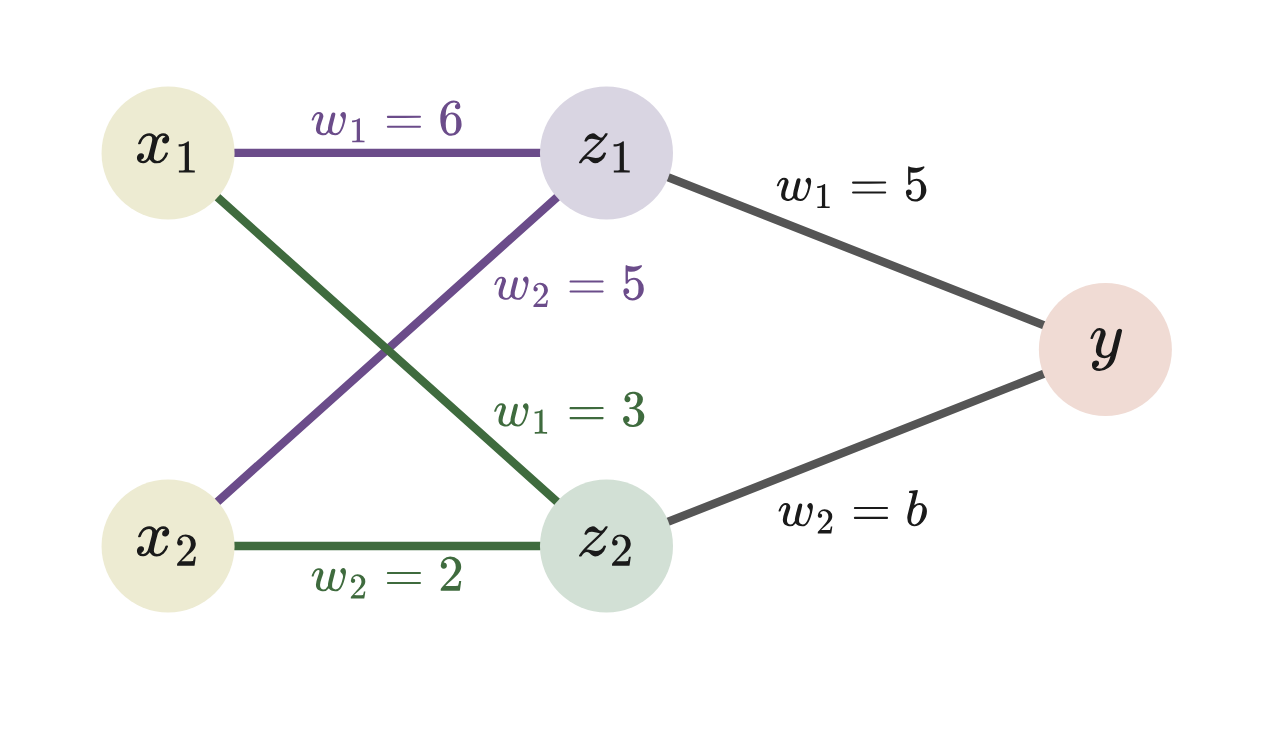
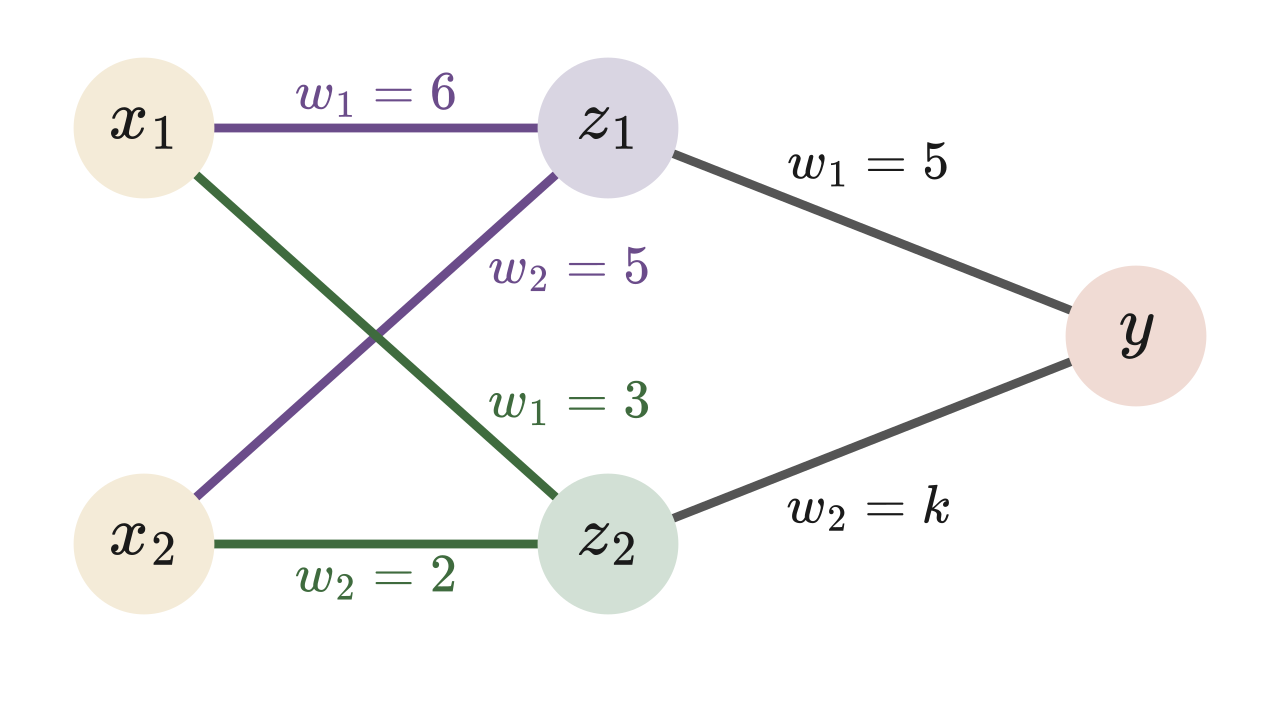
feat: 2학기 중간고사 시험지 v2 — 출제 오류 2건 수정 및 문항 정비
25문항 전체를 재검산하여 치명적 오류 2건을 바로잡고, 라벨 체계와
발문 형식을 정비한 개정본(v2)을 추가한다.

[오류 수정]
- 23번: 정답이 선택지에 없었음. P_A=3/4, P_B=4/5 이므로 B, 4/5 로
  분류되는데 해당 선택지가 없어 전원 정답 처리 사안이었다.
  선택지를 A 3/4 / A 4/5 / B 3/4 / B 4/5 / B 1 로 교체(정답 4번).
- 24번: 보기 ㄴ, ㄷ이 모두 거짓이었음. P_B 출력은 1이 아닌 2/7이고,
  해밍과 퍼셉트론이 갈린다는 ㄷ도 실제로는 둘 다 A로 분류된다.
  ㄴ을 오개념 저격 보기로, ㄷ을 사실에 맞게 수정(정답 4번).
  참고: 두 지표 모두 |A|가 작을수록 A에 유리해 3x3 격자에서는
  두 방법이 갈리는 상황을 구성할 수 없다(전수 탐색 확인).

[라벨 체계 통일]
- 분류 대상 이미지를 모두 X로 통일(10, 15, 16, 23, 24번).
  17번이 이미 이 규칙을 쓰고 있었다. 퍼셉트론 기호 P_A, P_B와
  충돌하므로 P는 쓰지 않는다.
- 15번 나열 순서를 A, B, C, X 로 정리.
- HTML은 인라인 SVG의 text 라벨 3곳만 수정.
- md용 PNG 3개(16, 23, 24번)는 원본 스타일로 재생성.

[문항 정비]
- 18, 25번: "순서대로 나열" 유형이 6문항으로 몰려 단일 답형으로 변경.
- 19번: 조건을 뒤로 빼서 "~인 퍼셉트론이 있다. w1=2일 때," 형태로.
- 20, 21번: "그림과 같은 가중치로 정해지는 ... 즉," 중복을 제거하고
  가중치 식을 별도 줄로 분리.
- 21번: 미지수 b를 k로 변경. b는 편향(bias)으로 오해되기 쉽고,
  바로 다음 22번에서 a, b를 행렬 성분으로 쓰고 있어 충돌한다.
  그림의 가중치 라벨(w_1, w_2 표기 + 색 구분)은 교과서(미래엔 77쪽)
  표기를 그대로 따르므로 유지하고, w_2=b 글리프만 k로 교체했다.

배점 3점 7 / 4점 11 / 5점 7 = 100점. 정답 분포 5/5/5/7/3.
원본은 그대로 두고 v2/ 하위에 추가한다.

Claude-Session: https://claude.ai/code/session_01137yLjB8xpwTJbUHsQQgqN

diff --git a/ai-math/output/exam/2026-2학기_중간고사/v2/시험지_v2_단독보기.html b/ai-math/output/exam/2026-2학기_중간고사/v2/시험지_v2_단독보기.html
@@ -984,7 +984,7 @@ mjx-container[jax="CHTML"][display="true"] {
 <svg class="fg-w-z2" x="30.50" y="23.80" width="10.15" height="2.77" viewBox="0.0 -665.0 2986.1 815.0"><g stroke="currentColor" fill="currentColor" stroke-width="0" transform="scale(1,-1)"><g data-mml-node="math"><g data-mml-node="msub"><g data-mml-node="mi"><path data-c="1D464" d="M580 385Q580 406 599 424T641 443Q659 443 674 425T690 368Q690 339 671 253Q656 197 644 161T609 80T554 12T482 -11Q438 -11 404 5T355 48Q354 47 352 44Q311 -11 252 -11Q226 -11 202 -5T155 14T118 53T104 116Q104 170 138 262T173 379Q173 380 173 381Q173 390 173 393T169 400T158 404H154Q131 404 112 385T82 344T65 302T57 280Q55 278 41 278H27Q21 284 21 287Q21 293 29 315T52 366T96 418T161 441Q204 441 227 416T250 358Q250 340 217 250T184 111Q184 65 205 46T258 26Q301 26 334 87L339 96V119Q339 122 339 128T340 136T341 143T342 152T345 165T348 182T354 206T362 238T373 281Q402 395 406 404Q419 431 449 431Q468 431 475 421T483 402Q483 389 454 274T422 142Q420 131 420 107V100Q420 85 423 71T442 42T487 26Q558 26 600 148Q609 171 620 213T632 273Q632 306 619 325T593 357T580 385Z"></path></g><g data-mml-node="mn" transform="translate(749,-150) scale(0.707)"><path data-c="31" d="M213 578L200 573Q186 568 160 563T102 556H83V602H102Q149 604 189 617T245 641T273 663Q275 666 285 666Q294 666 302 660V361L303 61Q310 54 315 52T339 48T401 46H427V0H416Q395 3 257 3Q121 3 100 0H88V46H114Q136 46 152 46T177 47T193 50T201 52T207 57T213 61V578Z"></path></g></g><g data-mml-node="mo" transform="translate(1430.3,0)"><path data-c="3D" d="M56 347Q56 360 70 367H707Q722 359 722 347Q722 336 708 328L390 327H72Q56 332 56 347ZM56 153Q56 168 72 173H708Q722 163 722 153Q722 140 707 133H70Q56 140 56 153Z"></path></g><g data-mml-node="mn" transform="translate(2486.1,0)"><path data-c="33" d="M127 463Q100 463 85 480T69 524Q69 579 117 622T233 665Q268 665 277 664Q351 652 390 611T430 522Q430 470 396 421T302 350L299 348Q299 347 308 345T337 336T375 315Q457 262 457 175Q457 96 395 37T238 -22Q158 -22 100 21T42 130Q42 158 60 175T105 193Q133 193 151 175T169 130Q169 119 166 110T159 94T148 82T136 74T126 70T118 67L114 66Q165 21 238 21Q293 21 321 74Q338 107 338 175V195Q338 290 274 322Q259 328 213 329L171 330L168 332Q166 335 166 348Q166 366 174 366Q202 366 232 371Q266 376 294 413T322 525V533Q322 590 287 612Q265 626 240 626Q208 626 181 615T143 592T132 580H135Q138 579 143 578T153 573T165 566T175 555T183 540T186 520Q186 498 172 481T127 463Z"></path></g></g></g></svg>
 <svg class="fg-w-z2" x="18.42" y="34.70" width="10.15" height="2.77" viewBox="0.0 -666.0 2986.1 816.0"><g stroke="currentColor" fill="currentColor" stroke-width="0" transform="scale(1,-1)"><g data-mml-node="math"><g data-mml-node="msub"><g data-mml-node="mi"><path data-c="1D464" d="M580 385Q580 406 599 424T641 443Q659 443 674 425T690 368Q690 339 671 253Q656 197 644 161T609 80T554 12T482 -11Q438 -11 404 5T355 48Q354 47 352 44Q311 -11 252 -11Q226 -11 202 -5T155 14T118 53T104 116Q104 170 138 262T173 379Q173 380 173 381Q173 390 173 393T169 400T158 404H154Q131 404 112 385T82 344T65 302T57 280Q55 278 41 278H27Q21 284 21 287Q21 293 29 315T52 366T96 418T161 441Q204 441 227 416T250 358Q250 340 217 250T184 111Q184 65 205 46T258 26Q301 26 334 87L339 96V119Q339 122 339 128T340 136T341 143T342 152T345 165T348 182T354 206T362 238T373 281Q402 395 406 404Q419 431 449 431Q468 431 475 421T483 402Q483 389 454 274T422 142Q420 131 420 107V100Q420 85 423 71T442 42T487 26Q558 26 600 148Q609 171 620 213T632 273Q632 306 619 325T593 357T580 385Z"></path></g><g data-mml-node="mn" transform="translate(749,-150) scale(0.707)"><path data-c="32" d="M109 429Q82 429 66 447T50 491Q50 562 103 614T235 666Q326 666 387 610T449 465Q449 422 429 383T381 315T301 241Q265 210 201 149L142 93L218 92Q375 92 385 97Q392 99 409 186V189H449V186Q448 183 436 95T421 3V0H50V19V31Q50 38 56 46T86 81Q115 113 136 137Q145 147 170 174T204 211T233 244T261 278T284 308T305 340T320 369T333 401T340 431T343 464Q343 527 309 573T212 619Q179 619 154 602T119 569T109 550Q109 549 114 549Q132 549 151 535T170 489Q170 464 154 447T109 429Z"></path></g></g><g data-mml-node="mo" transform="translate(1430.3,0)"><path data-c="3D" d="M56 347Q56 360 70 367H707Q722 359 722 347Q722 336 708 328L390 327H72Q56 332 56 347ZM56 153Q56 168 72 173H708Q722 163 722 153Q722 140 707 133H70Q56 140 56 153Z"></path></g><g data-mml-node="mn" transform="translate(2486.1,0)"><path data-c="32" d="M109 429Q82 429 66 447T50 491Q50 562 103 614T235 666Q326 666 387 610T449 465Q449 422 429 383T381 315T301 241Q265 210 201 149L142 93L218 92Q375 92 385 97Q392 99 409 186V189H449V186Q448 183 436 95T421 3V0H50V19V31Q50 38 56 46T86 81Q115 113 136 137Q145 147 170 174T204 211T233 244T261 278T284 308T305 340T320 369T333 401T340 431T343 464Q343 527 309 573T212 619Q179 619 154 602T119 569T109 550Q109 549 114 549Q132 549 151 535T170 489Q170 464 154 447T109 429Z"></path></g></g></g></svg>
 <svg class="fg-w-y" x="49.19" y="8.88" width="10.15" height="2.77" viewBox="0.0 -666.0 2986.1 816.0"><g stroke="currentColor" fill="currentColor" stroke-width="0" transform="scale(1,-1)"><g data-mml-node="math"><g data-mml-node="msub"><g data-mml-node="mi"><path data-c="1D464" d="M580 385Q580 406 599 424T641 443Q659 443 674 425T690 368Q690 339 671 253Q656 197 644 161T609 80T554 12T482 -11Q438 -11 404 5T355 48Q354 47 352 44Q311 -11 252 -11Q226 -11 202 -5T155 14T118 53T104 116Q104 170 138 262T173 379Q173 380 173 381Q173 390 173 393T169 400T158 404H154Q131 404 112 385T82 344T65 302T57 280Q55 278 41 278H27Q21 284 21 287Q21 293 29 315T52 366T96 418T161 441Q204 441 227 416T250 358Q250 340 217 250T184 111Q184 65 205 46T258 26Q301 26 334 87L339 96V119Q339 122 339 128T340 136T341 143T342 152T345 165T348 182T354 206T362 238T373 281Q402 395 406 404Q419 431 449 431Q468 431 475 421T483 402Q483 389 454 274T422 142Q420 131 420 107V100Q420 85 423 71T442 42T487 26Q558 26 600 148Q609 171 620 213T632 273Q632 306 619 325T593 357T580 385Z"></path></g><g data-mml-node="mn" transform="translate(749,-150) scale(0.707)"><path data-c="31" d="M213 578L200 573Q186 568 160 563T102 556H83V602H102Q149 604 189 617T245 641T273 663Q275 666 285 666Q294 666 302 660V361L303 61Q310 54 315 52T339 48T401 46H427V0H416Q395 3 257 3Q121 3 100 0H88V46H114Q136 46 152 46T177 47T193 50T201 52T207 57T213 61V578Z"></path></g></g><g data-mml-node="mo" transform="translate(1430.3,0)"><path data-c="3D" d="M56 347Q56 360 70 367H707Q722 359 722 347Q722 336 708 328L390 327H72Q56 332 56 347ZM56 153Q56 168 72 173H708Q722 163 722 153Q722 140 707 133H70Q56 140 56 153Z"></path></g><g data-mml-node="mn" transform="translate(2486.1,0)"><path data-c="35" d="M164 157Q164 133 148 117T109 101H102Q148 22 224 22Q294 22 326 82Q345 115 345 210Q345 313 318 349Q292 382 260 382H254Q176 382 136 314Q132 307 129 306T114 304Q97 304 95 310Q93 314 93 485V614Q93 664 98 664Q100 666 102 666Q103 666 123 658T178 642T253 634Q324 634 389 662Q397 666 402 666Q410 666 410 648V635Q328 538 205 538Q174 538 149 544L139 546V374Q158 388 169 396T205 412T256 420Q337 420 393 355T449 201Q449 109 385 44T229 -22Q148 -22 99 32T50 154Q50 178 61 192T84 210T107 214Q132 214 148 197T164 157Z"></path></g></g></g></svg>
-<svg class="fg-w-y" x="49.31" y="30.30" width="9.91" height="2.87" viewBox="0.0 -694.0 2915.1 844.0"><g stroke="currentColor" fill="currentColor" stroke-width="0" transform="scale(1,-1)"><g data-mml-node="math"><g data-mml-node="msub"><g data-mml-node="mi"><path data-c="1D464" d="M580 385Q580 406 599 424T641 443Q659 443 674 425T690 368Q690 339 671 253Q656 197 644 161T609 80T554 12T482 -11Q438 -11 404 5T355 48Q354 47 352 44Q311 -11 252 -11Q226 -11 202 -5T155 14T118 53T104 116Q104 170 138 262T173 379Q173 380 173 381Q173 390 173 393T169 400T158 404H154Q131 404 112 385T82 344T65 302T57 280Q55 278 41 278H27Q21 284 21 287Q21 293 29 315T52 366T96 418T161 441Q204 441 227 416T250 358Q250 340 217 250T184 111Q184 65 205 46T258 26Q301 26 334 87L339 96V119Q339 122 339 128T340 136T341 143T342 152T345 165T348 182T354 206T362 238T373 281Q402 395 406 404Q419 431 449 431Q468 431 475 421T483 402Q483 389 454 274T422 142Q420 131 420 107V100Q420 85 423 71T442 42T487 26Q558 26 600 148Q609 171 620 213T632 273Q632 306 619 325T593 357T580 385Z"></path></g><g data-mml-node="mn" transform="translate(749,-150) scale(0.707)"><path data-c="32" d="M109 429Q82 429 66 447T50 491Q50 562 103 614T235 666Q326 666 387 610T449 465Q449 422 429 383T381 315T301 241Q265 210 201 149L142 93L218 92Q375 92 385 97Q392 99 409 186V189H449V186Q448 183 436 95T421 3V0H50V19V31Q50 38 56 46T86 81Q115 113 136 137Q145 147 170 174T204 211T233 244T261 278T284 308T305 340T320 369T333 401T340 431T343 464Q343 527 309 573T212 619Q179 619 154 602T119 569T109 550Q109 549 114 549Q132 549 151 535T170 489Q170 464 154 447T109 429Z"></path></g></g><g data-mml-node="mo" transform="translate(1430.3,0)"><path data-c="3D" d="M56 347Q56 360 70 367H707Q722 359 722 347Q722 336 708 328L390 327H72Q56 332 56 347ZM56 153Q56 168 72 173H708Q722 163 722 153Q722 140 707 133H70Q56 140 56 153Z"></path></g><g data-mml-node="mi" transform="translate(2486.1,0)"><path data-c="1D44F" d="M73 647Q73 657 77 670T89 683Q90 683 161 688T234 694Q246 694 246 685T212 542Q204 508 195 472T180 418L176 399Q176 396 182 402Q231 442 283 442Q345 442 383 396T422 280Q422 169 343 79T173 -11Q123 -11 82 27T40 150V159Q40 180 48 217T97 414Q147 611 147 623T109 637Q104 637 101 637H96Q86 637 83 637T76 640T73 647ZM336 325V331Q336 405 275 405Q258 405 240 397T207 376T181 352T163 330L157 322L136 236Q114 150 114 114Q114 66 138 42Q154 26 178 26Q211 26 245 58Q270 81 285 114T318 219Q336 291 336 325Z"></path></g></g></g></svg>
+<svg class="fg-w-y" x="49.15" y="30.3" width="10.22" height="2.87" viewBox="0.0 -694.0 3007.1 844.0"><g stroke="currentColor" fill="currentColor" stroke-width="0" transform="scale(1,-1)"><g data-mml-node="math"><g data-mml-node="msub"><g data-mml-node="mi"><path data-c="1D464" d="M580 385Q580 406 599 424T641 443Q659 443 674 425T690 368Q690 339 671 253Q656 197 644 161T609 80T554 12T482 -11Q438 -11 404 5T355 48Q354 47 352 44Q311 -11 252 -11Q226 -11 202 -5T155 14T118 53T104 116Q104 170 138 262T173 379Q173 380 173 381Q173 390 173 393T169 400T158 404H154Q131 404 112 385T82 344T65 302T57 280Q55 278 41 278H27Q21 284 21 287Q21 293 29 315T52 366T96 418T161 441Q204 441 227 416T250 358Q250 340 217 250T184 111Q184 65 205 46T258 26Q301 26 334 87L339 96V119Q339 122 339 128T340 136T341 143T342 152T345 165T348 182T354 206T362 238T373 281Q402 395 406 404Q419 431 449 431Q468 431 475 421T483 402Q483 389 454 274T422 142Q420 131 420 107V100Q420 85 423 71T442 42T487 26Q558 26 600 148Q609 171 620 213T632 273Q632 306 619 325T593 357T580 385Z"></path></g><g data-mml-node="mn" transform="translate(749,-150) scale(0.707)"><path data-c="32" d="M109 429Q82 429 66 447T50 491Q50 562 103 614T235 666Q326 666 387 610T449 465Q449 422 429 383T381 315T301 241Q265 210 201 149L142 93L218 92Q375 92 385 97Q392 99 409 186V189H449V186Q448 183 436 95T421 3V0H50V19V31Q50 38 56 46T86 81Q115 113 136 137Q145 147 170 174T204 211T233 244T261 278T284 308T305 340T320 369T333 401T340 431T343 464Q343 527 309 573T212 619Q179 619 154 602T119 569T109 550Q109 549 114 549Q132 549 151 535T170 489Q170 464 154 447T109 429Z"></path></g></g><g data-mml-node="mo" transform="translate(1430.3,0)"><path data-c="3D" d="M56 347Q56 360 70 367H707Q722 359 722 347Q722 336 708 328L390 327H72Q56 332 56 347ZM56 153Q56 168 72 173H708Q722 163 722 153Q722 140 707 133H70Q56 140 56 153Z"></path></g><g data-mml-node="mi" transform="translate(2486.1,0)"><path data-c="1D458" d="M121 647Q121 657 125 670T137 683Q138 683 209 688T282 694Q294 694 294 686Q294 679 244 477Q194 279 194 272Q213 282 223 291Q247 309 292 354T362 415Q402 442 438 442Q468 442 485 423T503 369Q503 344 496 327T477 302T456 291T438 288Q418 288 406 299T394 328Q394 353 410 369T442 390L458 393Q446 405 434 405H430Q398 402 367 380T294 316T228 255Q230 254 243 252T267 246T293 238T320 224T342 206T359 180T365 147Q365 130 360 106T354 66Q354 26 381 26Q429 26 459 145Q461 153 479 153H483Q499 153 499 144Q499 139 496 130Q455 -11 378 -11Q333 -11 305 15T277 90Q277 108 280 121T283 145Q283 167 269 183T234 206T200 217T182 220H180Q168 178 159 139T145 81T136 44T129 20T122 7T111 -2Q98 -11 83 -11Q66 -11 57 -1T48 16Q48 26 85 176T158 471L195 616Q196 629 188 632T149 637H144Q134 637 131 637T124 640T121 647Z"></path></g></g></g></svg>
 <circle class="fg-node-x" cx="9" cy="8" r="4.4"/>
 <svg class="fg-node-text" x="6.78" y="6.70" width="4.44" height="2.60" viewBox="0.0 -442.0 1008.6 592.0"><g stroke="currentColor" fill="currentColor" stroke-width="0" transform="scale(1,-1)"><g data-mml-node="math"><g data-mml-node="msub"><g data-mml-node="mi"><path data-c="1D465" d="M52 289Q59 331 106 386T222 442Q257 442 286 424T329 379Q371 442 430 442Q467 442 494 420T522 361Q522 332 508 314T481 292T458 288Q439 288 427 299T415 328Q415 374 465 391Q454 404 425 404Q412 404 406 402Q368 386 350 336Q290 115 290 78Q290 50 306 38T341 26Q378 26 414 59T463 140Q466 150 469 151T485 153H489Q504 153 504 145Q504 144 502 134Q486 77 440 33T333 -11Q263 -11 227 52Q186 -10 133 -10H127Q78 -10 57 16T35 71Q35 103 54 123T99 143Q142 143 142 101Q142 81 130 66T107 46T94 41L91 40Q91 39 97 36T113 29T132 26Q168 26 194 71Q203 87 217 139T245 247T261 313Q266 340 266 352Q266 380 251 392T217 404Q177 404 142 372T93 290Q91 281 88 280T72 278H58Q52 284 52 289Z"></path></g><g data-mml-node="mn" transform="translate(605,-150) scale(0.707)"><path data-c="31" d="M213 578L200 573Q186 568 160 563T102 556H83V602H102Q149 604 189 617T245 641T273 663Q275 666 285 666Q294 666 302 660V361L303 61Q310 54 315 52T339 48T401 46H427V0H416Q395 3 257 3Q121 3 100 0H88V46H114Q136 46 152 46T177 47T193 50T201 52T207 57T213 61V578Z"></path></g></g></g></g></svg>
 <circle class="fg-node-x" cx="9" cy="34" r="4.4"/>

diff --git a/ai-math/output/exam/2026-2학기_중간고사/v2/시험지_2026-2학기_중간고사_인공지능수학_v2.html b/ai-math/output/exam/2026-2학기_중간고사/v2/시험지_2026-2학기_중간고사_인공지능수학_v2.html
@@ -247,7 +247,7 @@
 <svg class="fg-w-z2" x="30.50" y="23.80" width="10.15" height="2.77" viewBox="0.0 -665.0 2986.1 815.0"><g stroke="currentColor" fill="currentColor" stroke-width="0" transform="scale(1,-1)"><g data-mml-node="math"><g data-mml-node="msub"><g data-mml-node="mi"><path data-c="1D464" d="M580 385Q580 406 599 424T641 443Q659 443 674 425T690 368Q690 339 671 253Q656 197 644 161T609 80T554 12T482 -11Q438 -11 404 5T355 48Q354 47 352 44Q311 -11 252 -11Q226 -11 202 -5T155 14T118 53T104 116Q104 170 138 262T173 379Q173 380 173 381Q173 390 173 393T169 400T158 404H154Q131 404 112 385T82 344T65 302T57 280Q55 278 41 278H27Q21 284 21 287Q21 293 29 315T52 366T96 418T161 441Q204 441 227 416T250 358Q250 340 217 250T184 111Q184 65 205 46T258 26Q301 26 334 87L339 96V119Q339 122 339 128T340 136T341 143T342 152T345 165T348 182T354 206T362 238T373 281Q402 395 406 404Q419 431 449 431Q468 431 475 421T483 402Q483 389 454 274T422 142Q420 131 420 107V100Q420 85 423 71T442 42T487 26Q558 26 600 148Q609 171 620 213T632 273Q632 306 619 325T593 357T580 385Z"></path></g><g data-mml-node="mn" transform="translate(749,-150) scale(0.707)"><path data-c="31" d="M213 578L200 573Q186 568 160 563T102 556H83V602H102Q149 604 189 617T245 641T273 663Q275 666 285 666Q294 666 302 660V361L303 61Q310 54 315 52T339 48T401 46H427V0H416Q395 3 257 3Q121 3 100 0H88V46H114Q136 46 152 46T177 47T193 50T201 52T207 57T213 61V578Z"></path></g></g><g data-mml-node="mo" transform="translate(1430.3,0)"><path data-c="3D" d="M56 347Q56 360 70 367H707Q722 359 722 347Q722 336 708 328L390 327H72Q56 332 56 347ZM56 153Q56 168 72 173H708Q722 163 722 153Q722 140 707 133H70Q56 140 56 153Z"></path></g><g data-mml-node="mn" transform="translate(2486.1,0)"><path data-c="33" d="M127 463Q100 463 85 480T69 524Q69 579 117 622T233 665Q268 665 277 664Q351 652 390 611T430 522Q430 470 396 421T302 350L299 348Q299 347 308 345T337 336T375 315Q457 262 457 175Q457 96 395 37T238 -22Q158 -22 100 21T42 130Q42 158 60 175T105 193Q133 193 151 175T169 130Q169 119 166 110T159 94T148 82T136 74T126 70T118 67L114 66Q165 21 238 21Q293 21 321 74Q338 107 338 175V195Q338 290 274 322Q259 328 213 329L171 330L168 332Q166 335 166 348Q166 366 174 366Q202 366 232 371Q266 376 294 413T322 525V533Q322 590 287 612Q265 626 240 626Q208 626 181 615T143 592T132 580H135Q138 579 143 578T153 573T165 566T175 555T183 540T186 520Q186 498 172 481T127 463Z"></path></g></g></g></svg>
 <svg class="fg-w-z2" x="18.42" y="34.70" width="10.15" height="2.77" viewBox="0.0 -666.0 2986.1 816.0"><g stroke="currentColor" fill="currentColor" stroke-width="0" transform="scale(1,-1)"><g data-mml-node="math"><g data-mml-node="msub"><g data-mml-node="mi"><path data-c="1D464" d="M580 385Q580 406 599 424T641 443Q659 443 674 425T690 368Q690 339 671 253Q656 197 644 161T609 80T554 12T482 -11Q438 -11 404 5T355 48Q354 47 352 44Q311 -11 252 -11Q226 -11 202 -5T155 14T118 53T104 116Q104 170 138 262T173 379Q173 380 173 381Q173 390 173 393T169 400T158 404H154Q131 404 112 385T82 344T65 302T57 280Q55 278 41 278H27Q21 284 21 287Q21 293 29 315T52 366T96 418T161 441Q204 441 227 416T250 358Q250 340 217 250T184 111Q184 65 205 46T258 26Q301 26 334 87L339 96V119Q339 122 339 128T340 136T341 143T342 152T345 165T348 182T354 206T362 238T373 281Q402 395 406 404Q419 431 449 431Q468 431 475 421T483 402Q483 389 454 274T422 142Q420 131 420 107V100Q420 85 423 71T442 42T487 26Q558 26 600 148Q609 171 620 213T632 273Q632 306 619 325T593 357T580 385Z"></path></g><g data-mml-node="mn" transform="translate(749,-150) scale(0.707)"><path data-c="32" d="M109 429Q82 429 66 447T50 491Q50 562 103 614T235 666Q326 666 387 610T449 465Q449 422 429 383T381 315T301 241Q265 210 201 149L142 93L218 92Q375 92 385 97Q392 99 409 186V189H449V186Q448 183 436 95T421 3V0H50V19V31Q50 38 56 46T86 81Q115 113 136 137Q145 147 170 174T204 211T233 244T261 278T284 308T305 340T320 369T333 401T340 431T343 464Q343 527 309 573T212 619Q179 619 154 602T119 569T109 550Q109 549 114 549Q132 549 151 535T170 489Q170 464 154 447T109 429Z"></path></g></g><g data-mml-node="mo" transform="translate(1430.3,0)"><path data-c="3D" d="M56 347Q56 360 70 367H707Q722 359 722 347Q722 336 708 328L390 327H72Q56 332 56 347ZM56 153Q56 168 72 173H708Q722 163 722 153Q722 140 707 133H70Q56 140 56 153Z"></path></g><g data-mml-node="mn" transform="translate(2486.1,0)"><path data-c="32" d="M109 429Q82 429 66 447T50 491Q50 562 103 614T235 666Q326 666 387 610T449 465Q449 422 429 383T381 315T301 241Q265 210 201 149L142 93L218 92Q375 92 385 97Q392 99 409 186V189H449V186Q448 183 436 95T421 3V0H50V19V31Q50 38 56 46T86 81Q115 113 136 137Q145 147 170 174T204 211T233 244T261 278T284 308T305 340T320 369T333 401T340 431T343 464Q343 527 309 573T212 619Q179 619 154 602T119 569T109 550Q109 549 114 549Q132 549 151 535T170 489Q170 464 154 447T109 429Z"></path></g></g></g></svg>
 <svg class="fg-w-y" x="49.19" y="8.88" width="10.15" height="2.77" viewBox="0.0 -666.0 2986.1 816.0"><g stroke="currentColor" fill="currentColor" stroke-width="0" transform="scale(1,-1)"><g data-mml-node="math"><g data-mml-node="msub"><g data-mml-node="mi"><path data-c="1D464" d="M580 385Q580 406 599 424T641 443Q659 443 674 425T690 368Q690 339 671 253Q656 197 644 161T609 80T554 12T482 -11Q438 -11 404 5T355 48Q354 47 352 44Q311 -11 252 -11Q226 -11 202 -5T155 14T118 53T104 116Q104 170 138 262T173 379Q173 380 173 381Q173 390 173 393T169 400T158 404H154Q131 404 112 385T82 344T65 302T57 280Q55 278 41 278H27Q21 284 21 287Q21 293 29 315T52 366T96 418T161 441Q204 441 227 416T250 358Q250 340 217 250T184 111Q184 65 205 46T258 26Q301 26 334 87L339 96V119Q339 122 339 128T340 136T341 143T342 152T345 165T348 182T354 206T362 238T373 281Q402 395 406 404Q419 431 449 431Q468 431 475 421T483 402Q483 389 454 274T422 142Q420 131 420 107V100Q420 85 423 71T442 42T487 26Q558 26 600 148Q609 171 620 213T632 273Q632 306 619 325T593 357T580 385Z"></path></g><g data-mml-node="mn" transform="translate(749,-150) scale(0.707)"><path data-c="31" d="M213 578L200 573Q186 568 160 563T102 556H83V602H102Q149 604 189 617T245 641T273 663Q275 666 285 666Q294 666 302 660V361L303 61Q310 54 315 52T339 48T401 46H427V0H416Q395 3 257 3Q121 3 100 0H88V46H114Q136 46 152 46T177 47T193 50T201 52T207 57T213 61V578Z"></path></g></g><g data-mml-node="mo" transform="translate(1430.3,0)"><path data-c="3D" d="M56 347Q56 360 70 367H707Q722 359 722 347Q722 336 708 328L390 327H72Q56 332 56 347ZM56 153Q56 168 72 173H708Q722 163 722 153Q722 140 707 133H70Q56 140 56 153Z"></path></g><g data-mml-node="mn" transform="translate(2486.1,0)"><path data-c="35" d="M164 157Q164 133 148 117T109 101H102Q148 22 224 22Q294 22 326 82Q345 115 345 210Q345 313 318 349Q292 382 260 382H254Q176 382 136 314Q132 307 129 306T114 304Q97 304 95 310Q93 314 93 485V614Q93 664 98 664Q100 666 102 666Q103 666 123 658T178 642T253 634Q324 634 389 662Q397 666 402 666Q410 666 410 648V635Q328 538 205 538Q174 538 149 544L139 546V374Q158 388 169 396T205 412T256 420Q337 420 393 355T449 201Q449 109 385 44T229 -22Q148 -22 99 32T50 154Q50 178 61 192T84 210T107 214Q132 214 148 197T164 157Z"></path></g></g></g></svg>
-<svg class="fg-w-y" x="49.31" y="30.30" width="9.91" height="2.87" viewBox="0.0 -694.0 2915.1 844.0"><g stroke="currentColor" fill="currentColor" stroke-width="0" transform="scale(1,-1)"><g data-mml-node="math"><g data-mml-node="msub"><g data-mml-node="mi"><path data-c="1D464" d="M580 385Q580 406 599 424T641 443Q659 443 674 425T690 368Q690 339 671 253Q656 197 644 161T609 80T554 12T482 -11Q438 -11 404 5T355 48Q354 47 352 44Q311 -11 252 -11Q226 -11 202 -5T155 14T118 53T104 116Q104 170 138 262T173 379Q173 380 173 381Q173 390 173 393T169 400T158 404H154Q131 404 112 385T82 344T65 302T57 280Q55 278 41 278H27Q21 284 21 287Q21 293 29 315T52 366T96 418T161 441Q204 441 227 416T250 358Q250 340 217 250T184 111Q184 65 205 46T258 26Q301 26 334 87L339 96V119Q339 122 339 128T340 136T341 143T342 152T345 165T348 182T354 206T362 238T373 281Q402 395 406 404Q419 431 449 431Q468 431 475 421T483 402Q483 389 454 274T422 142Q420 131 420 107V100Q420 85 423 71T442 42T487 26Q558 26 600 148Q609 171 620 213T632 273Q632 306 619 325T593 357T580 385Z"></path></g><g data-mml-node="mn" transform="translate(749,-150) scale(0.707)"><path data-c="32" d="M109 429Q82 429 66 447T50 491Q50 562 103 614T235 666Q326 666 387 610T449 465Q449 422 429 383T381 315T301 241Q265 210 201 149L142 93L218 92Q375 92 385 97Q392 99 409 186V189H449V186Q448 183 436 95T421 3V0H50V19V31Q50 38 56 46T86 81Q115 113 136 137Q145 147 170 174T204 211T233 244T261 278T284 308T305 340T320 369T333 401T340 431T343 464Q343 527 309 573T212 619Q179 619 154 602T119 569T109 550Q109 549 114 549Q132 549 151 535T170 489Q170 464 154 447T109 429Z"></path></g></g><g data-mml-node="mo" transform="translate(1430.3,0)"><path data-c="3D" d="M56 347Q56 360 70 367H707Q722 359 722 347Q722 336 708 328L390 327H72Q56 332 56 347ZM56 153Q56 168 72 173H708Q722 163 722 153Q722 140 707 133H70Q56 140 56 153Z"></path></g><g data-mml-node="mi" transform="translate(2486.1,0)"><path data-c="1D44F" d="M73 647Q73 657 77 670T89 683Q90 683 161 688T234 694Q246 694 246 685T212 542Q204 508 195 472T180 418L176 399Q176 396 182 402Q231 442 283 442Q345 442 383 396T422 280Q422 169 343 79T173 -11Q123 -11 82 27T40 150V159Q40 180 48 217T97 414Q147 611 147 623T109 637Q104 637 101 637H96Q86 637 83 637T76 640T73 647ZM336 325V331Q336 405 275 405Q258 405 240 397T207 376T181 352T163 330L157 322L136 236Q114 150 114 114Q114 66 138 42Q154 26 178 26Q211 26 245 58Q270 81 285 114T318 219Q336 291 336 325Z"></path></g></g></g></svg>
+<svg class="fg-w-y" x="49.15" y="30.3" width="10.22" height="2.87" viewBox="0.0 -694.0 3007.1 844.0"><g stroke="currentColor" fill="currentColor" stroke-width="0" transform="scale(1,-1)"><g data-mml-node="math"><g data-mml-node="msub"><g data-mml-node="mi"><path data-c="1D464" d="M580 385Q580 406 599 424T641 443Q659 443 674 425T690 368Q690 339 671 253Q656 197 644 161T609 80T554 12T482 -11Q438 -11 404 5T355 48Q354 47 352 44Q311 -11 252 -11Q226 -11 202 -5T155 14T118 53T104 116Q104 170 138 262T173 379Q173 380 173 381Q173 390 173 393T169 400T158 404H154Q131 404 112 385T82 344T65 302T57 280Q55 278 41 278H27Q21 284 21 287Q21 293 29 315T52 366T96 418T161 441Q204 441 227 416T250 358Q250 340 217 250T184 111Q184 65 205 46T258 26Q301 26 334 87L339 96V119Q339 122 339 128T340 136T341 143T342 152T345 165T348 182T354 206T362 238T373 281Q402 395 406 404Q419 431 449 431Q468 431 475 421T483 402Q483 389 454 274T422 142Q420 131 420 107V100Q420 85 423 71T442 42T487 26Q558 26 600 148Q609 171 620 213T632 273Q632 306 619 325T593 357T580 385Z"></path></g><g data-mml-node="mn" transform="translate(749,-150) scale(0.707)"><path data-c="32" d="M109 429Q82 429 66 447T50 491Q50 562 103 614T235 666Q326 666 387 610T449 465Q449 422 429 383T381 315T301 241Q265 210 201 149L142 93L218 92Q375 92 385 97Q392 99 409 186V189H449V186Q448 183 436 95T421 3V0H50V19V31Q50 38 56 46T86 81Q115 113 136 137Q145 147 170 174T204 211T233 244T261 278T284 308T305 340T320 369T333 401T340 431T343 464Q343 527 309 573T212 619Q179 619 154 602T119 569T109 550Q109 549 114 549Q132 549 151 535T170 489Q170 464 154 447T109 429Z"></path></g></g><g data-mml-node="mo" transform="translate(1430.3,0)"><path data-c="3D" d="M56 347Q56 360 70 367H707Q722 359 722 347Q722 336 708 328L390 327H72Q56 332 56 347ZM56 153Q56 168 72 173H708Q722 163 722 153Q722 140 707 133H70Q56 140 56 153Z"></path></g><g data-mml-node="mi" transform="translate(2486.1,0)"><path data-c="1D458" d="M121 647Q121 657 125 670T137 683Q138 683 209 688T282 694Q294 694 294 686Q294 679 244 477Q194 279 194 272Q213 282 223 291Q247 309 292 354T362 415Q402 442 438 442Q468 442 485 423T503 369Q503 344 496 327T477 302T456 291T438 288Q418 288 406 299T394 328Q394 353 410 369T442 390L458 393Q446 405 434 405H430Q398 402 367 380T294 316T228 255Q230 254 243 252T267 246T293 238T320 224T342 206T359 180T365 147Q365 130 360 106T354 66Q354 26 381 26Q429 26 459 145Q461 153 479 153H483Q499 153 499 144Q499 139 496 130Q455 -11 378 -11Q333 -11 305 15T277 90Q277 108 280 121T283 145Q283 167 269 183T234 206T200 217T182 220H180Q168 178 159 139T145 81T136 44T129 20T122 7T111 -2Q98 -11 83 -11Q66 -11 57 -1T48 16Q48 26 85 176T158 471L195 616Q196 629 188 632T149 637H144Q134 637 131 637T124 640T121 647Z"></path></g></g></g></svg>
 <circle class="fg-node-x" cx="9" cy="8" r="4.4"/>
 <svg class="fg-node-text" x="6.78" y="6.70" width="4.44" height="2.60" viewBox="0.0 -442.0 1008.6 592.0"><g stroke="currentColor" fill="currentColor" stroke-width="0" transform="scale(1,-1)"><g data-mml-node="math"><g data-mml-node="msub"><g data-mml-node="mi"><path data-c="1D465" d="M52 289Q59 331 106 386T222 442Q257 442 286 424T329 379Q371 442 430 442Q467 442 494 420T522 361Q522 332 508 314T481 292T458 288Q439 288 427 299T415 328Q415 374 465 391Q454 404 425 404Q412 404 406 402Q368 386 350 336Q290 115 290 78Q290 50 306 38T341 26Q378 26 414 59T463 140Q466 150 469 151T485 153H489Q504 153 504 145Q504 144 502 134Q486 77 440 33T333 -11Q263 -11 227 52Q186 -10 133 -10H127Q78 -10 57 16T35 71Q35 103 54 123T99 143Q142 143 142 101Q142 81 130 66T107 46T94 41L91 40Q91 39 97 36T113 29T132 26Q168 26 194 71Q203 87 217 139T245 247T261 313Q266 340 266 352Q266 380 251 392T217 404Q177 404 142 372T93 290Q91 281 88 280T72 278H58Q52 284 52 289Z"></path></g><g data-mml-node="mn" transform="translate(605,-150) scale(0.707)"><path data-c="31" d="M213 578L200 573Q186 568 160 563T102 556H83V602H102Q149 604 189 617T245 641T273 663Q275 666 285 666Q294 666 302 660V361L303 61Q310 54 315 52T339 48T401 46H427V0H416Q395 3 257 3Q121 3 100 0H88V46H114Q136 46 152 46T177 47T193 50T201 52T207 57T213 61V578Z"></path></g></g></g></g></svg>
 <circle class="fg-node-x" cx="9" cy="34" r="4.4"/>
